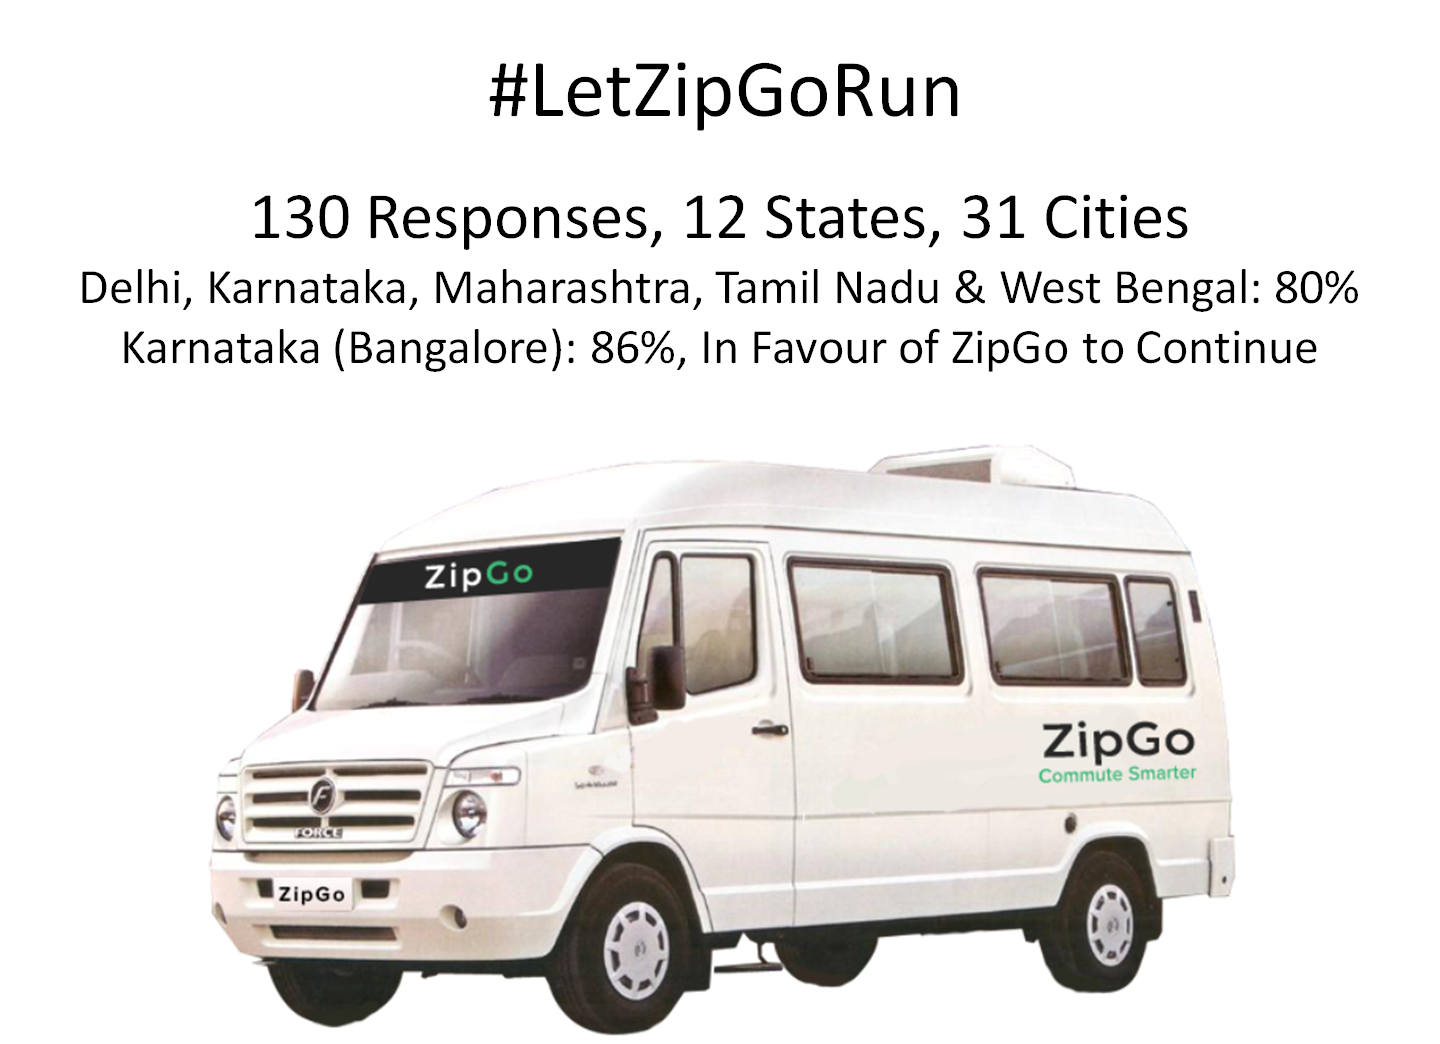
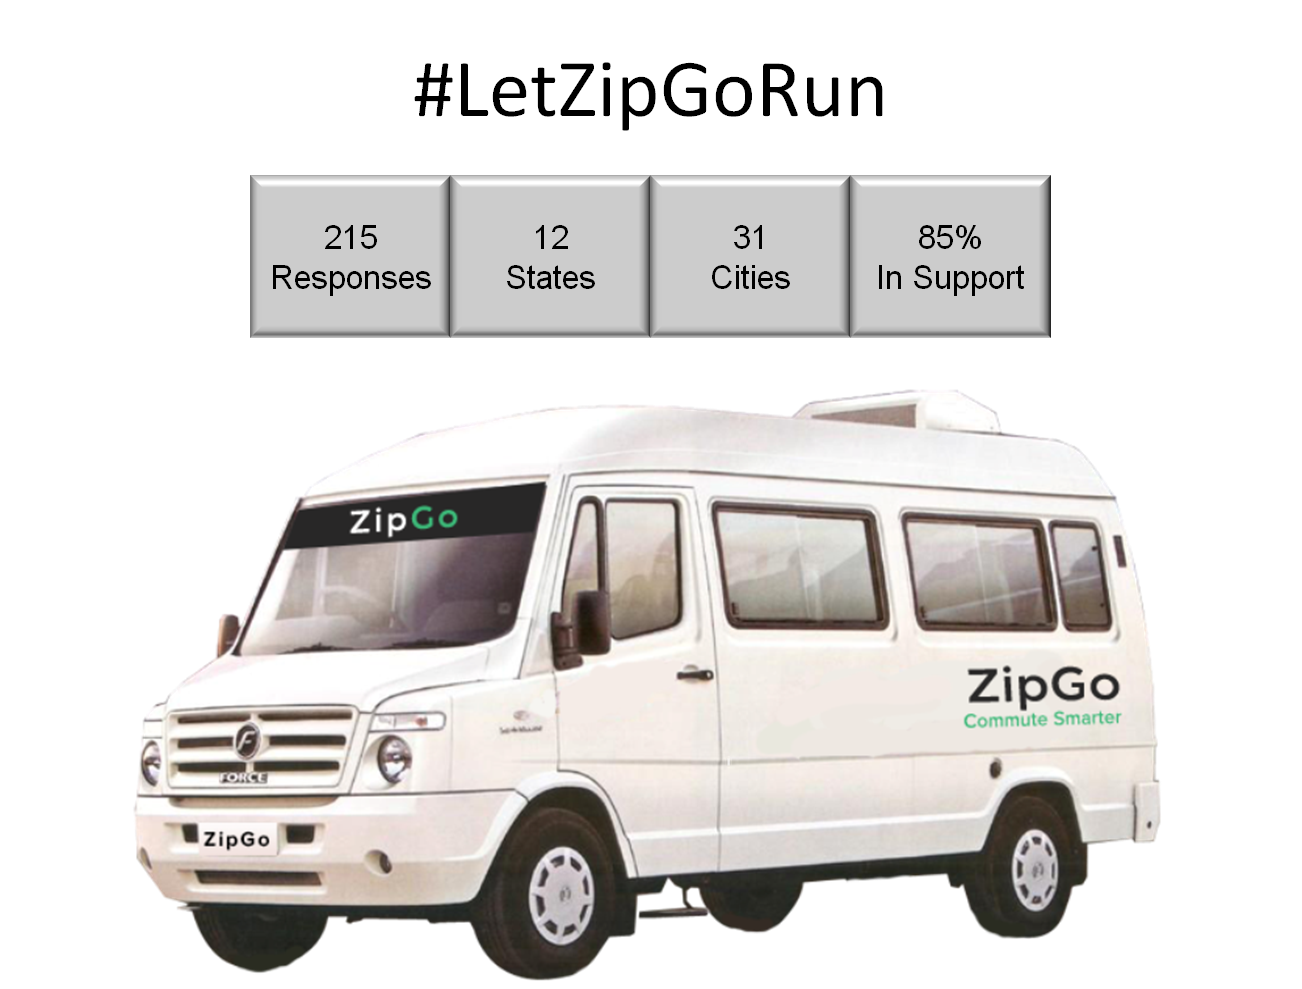
image changed zipgo article

diff --git a/polls/templates/should-zipgo-be-allowed-to-continue-operations-in.html b/polls/templates/should-zipgo-be-allowed-to-continue-operations-in.html
@@ -1,7 +1,7 @@
 {% extends "polls/common.html" %}
 {% load static %}
 {% block meta_data_extra %}
-	<meta property="og:image" content="http://{{ request.META.HTTP_HOST }}/static/yourstory1.png"/>
+	<meta property="og:image" content="http://{{ request.META.HTTP_HOST }}/static/yourstory.png"/>
 	<meta property="og:image:width" content="300" /> 
 	<meta property="og:image:height" content="300" />
 	<meta property="og:url" content="https://{{ request.META.HTTP_HOST }}{{ request.path }}"/>
@@ -41,7 +41,7 @@
 				</P>
 
 				<div class="figBox" id="figBox1"> 
-					<img class="article-images-org-center" id="zipgo-image" src="/static/yourstory1.png">
+					<img class="article-images-org-center" id="zipgo-image" src="/static/yourstory.png">
 				</div>
 
 			<H2 class="article-sub-headings">The Story So Far</h2>
@@ -131,12 +131,11 @@
 		 <br><br>
 		 <H2 class="article-sub-headings">Poll Analysis – Updated Till 3rd February, 5 PM</h2>
 		 <H2 class="article-sub-headings">Highlights of the Poll Analysis: </h2>
-		 <p>•    Total Responses: 173, Sources: Social Media, Poll Running on Our Website. </p>
-		 <p>•	 A total of 130 clean responses from 12 States across the Country and 31 Cities and Localities. </p>
-	 	 <p>•	 Delhi, Karnataka, Maharashtra, Tamil Nadu & West Bengal Resulted for 91.5% of the Total Votes. </p>
-		 <p>•	 80% People from these Major States Have Voted in Favour of ZipGo not to be suspended.</p>
-		 <p>•	 Whereas 7.7% People have Voted against ZipGo and remaining 3.8% do not have any opinion.   </p>
-		 <p>•	 Within Karnataka, a larger 85.9% chunk is in favour of ZipGo & 7.8% are against it.</p>
+		 <p>•    A total of 215 Responses from 13 States across the Country and 43 Cities and Localities.</p>
+		 <p>•		Delhi, Karnataka, Maharashtra, Tamil Nadu & West Bengal Resulted for 92.1% of the Total Votes.</p>
+	 	 <p>•	 85.4% People from these Major States Have Voted in Favour of ZipGo "Not To Be Suspended."</p>
+		 <p>•	 Whereas 10.1% People have Voted against ZipGo and remaining 4.5% do not have any opinion.</p>
+		 <p>•	 Within Karnataka, 84.6% are in favour of ZipGo & 10.3% are against it.</p>
 		<div class="figBox" id="figBox1">
                                         <img class="article-images-org-center" id="zipgo-stats" src="/static/widgetResultsZipgo.png">
                 </div>
